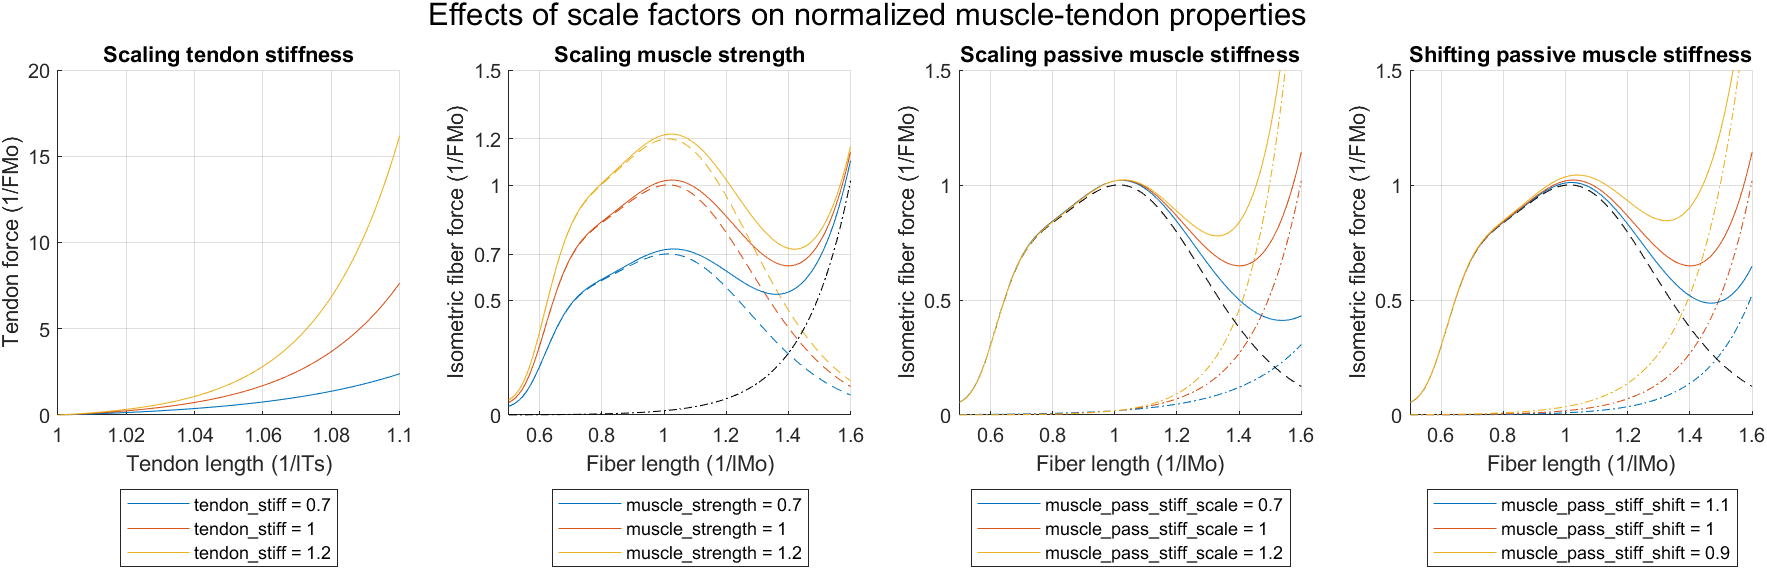
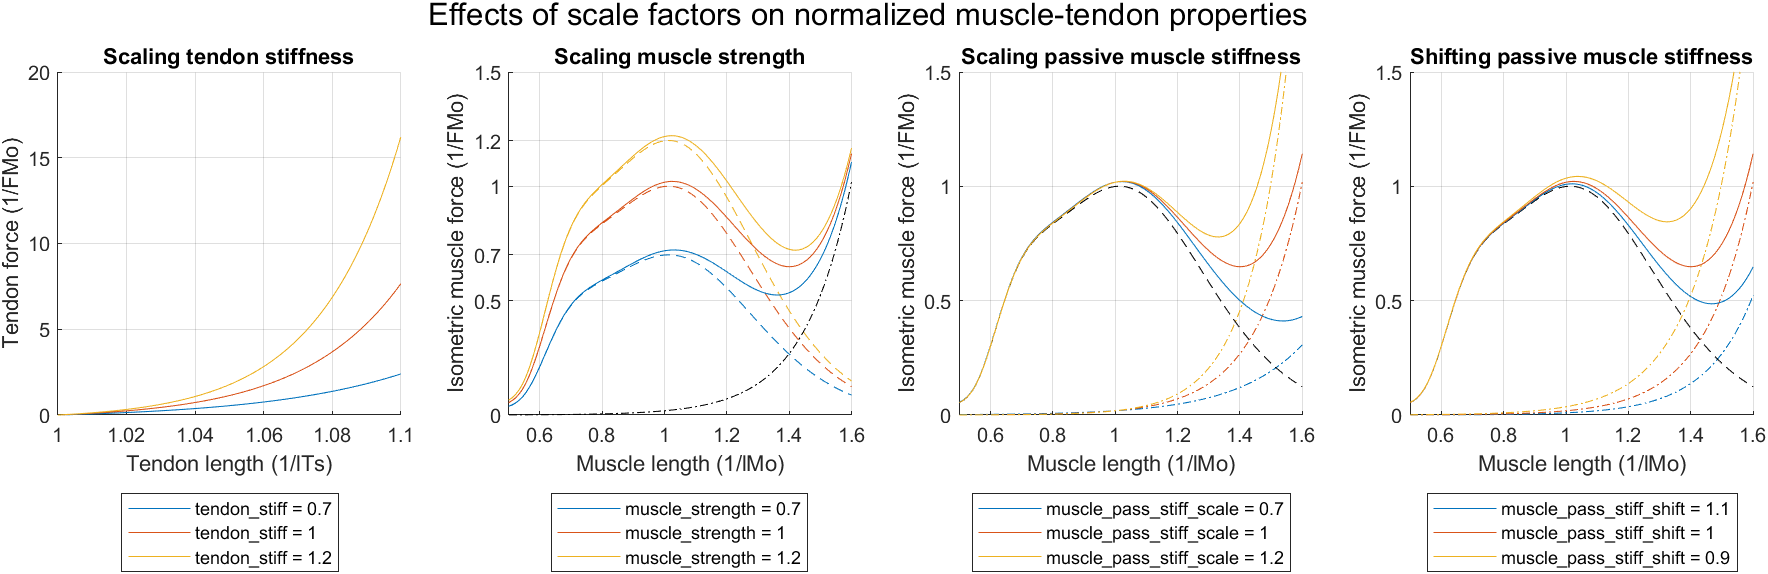
update MT scaling figures with muscle force/muscle length

diff --git a/Documentation/FiguresForDocumentation/muscle_tendon_properties_scaling.m b/Documentation/FiguresForDocumentation/muscle_tendon_properties_scaling.m
@@ -70,8 +70,8 @@ for i=1:length(muscle_strength_vec)
     lg1(end+1) = p1;
 end
 
-xlabel('Fiber length (1/lMo)')
-ylabel('Isometric fiber force (1/FMo)')
+xlabel('Muscle length (1/lMo)')
+ylabel('Isometric muscle force (1/FMo)')
 title('Scaling muscle strength')
 legend(lg1,'Location','southoutside','Interpreter','none')
 xlim([min(lMtilde),max(lMtilde)])
@@ -104,8 +104,8 @@ for i=1:length(muscle_pass_stiff_shift_vec)
     lg1(end+1) = p1;
 end
 
-xlabel('Fiber length (1/lMo)')
-ylabel('Isometric fiber force (1/FMo)')
+xlabel('Muscle length (1/lMo)')
+ylabel('Isometric muscle force (1/FMo)')
 title('Scaling passive muscle stiffness')
 legend(lg1,'Location','southoutside','Interpreter','none')
 xlim([min(lMtilde),max(lMtilde)])
@@ -136,8 +136,8 @@ for i=1:length(muscle_pass_stiff_shift_vec)
     lg1(end+1) = p1;
 end
 
-xlabel('Fiber length (1/lMo)')
-ylabel('Isometric fiber force (1/FMo)')
+xlabel('Muscle length (1/lMo)')
+ylabel('Isometric muscle force (1/FMo)')
 title('Shifting passive muscle stiffness')
 legend(lg1,'Location','southoutside','Interpreter','none')
 xlim([min(lMtilde),max(lMtilde)])
@@ -146,7 +146,7 @@ grid on
 
 
 %%
-exportgraphics(f1,[pwd '/fig_muscle_tendon_properties_scaling.png']);
+exportgraphics(f1,[pwd '\fig_muscle_tendon_properties_scaling.png']);
 
 %%
 function [Fl_T, Fla_M, Flp_M] = f_get_forces_l(lTtilde,lMtilde, tendon_stiff,...
